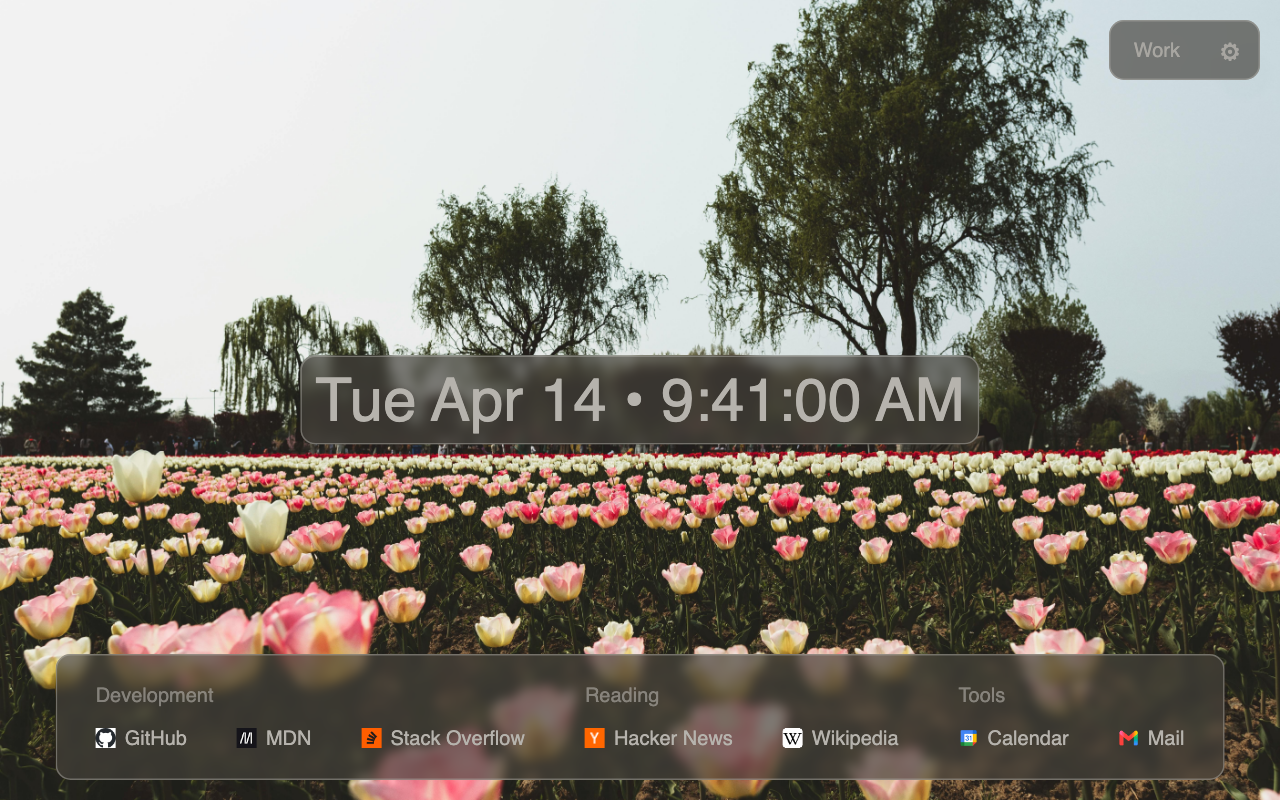
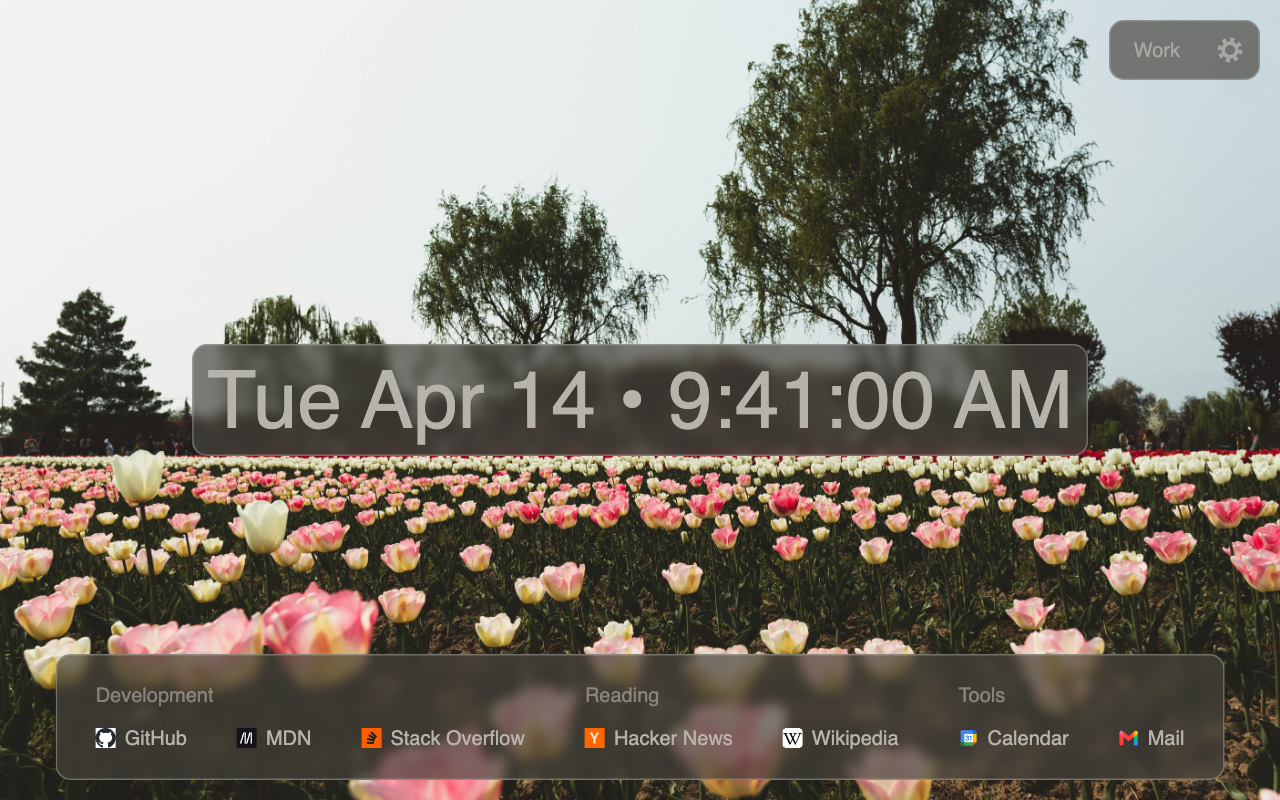
Keep the gear still while it spins, and enlarge the clock
The settings gear was the ⚙ character, which sits off-center in its
line box, so rotating it on hover made it drift (about 1.5px at 45°).
It's now an inline SVG centered in its own box, and only the SVG
rotates; measured drift is under 0.2px.

The clock was the same size as the link text in Corners, which made it
easy to miss. Its base size goes up in every layout: Corners 1rem to
1.6rem, Dock 3rem to 4rem, and the lock-screen time 4.5rem to 6rem
(date 1.1rem to 1.4rem). The clock size slider still multiplies these.

Regenerates the store screenshots.

Changed region(s): [[0.125, 0.4062, 0.875, 0.5938], [0.9375, 0.0312, 0.9688, 0.0625]]

diff --git a/new-tab.html b/new-tab.html
@@ -43,16 +43,25 @@
         height: 2.5rem;
         width: 2.5rem;
         border-radius: 0.5rem;
-        transition:
-          opacity 0.3s,
-          transform 0.3s;
+        transition: opacity 0.3s;
         font-size: 1.5rem;
         text-decoration: none;
+
+        /* An SVG rather than the ⚙ character: the glyph sits off-center in
+           its line box, so spinning it made it wobble */
+        & svg {
+          width: 1em;
+          height: 1em;
+          transition: transform 0.3s;
+        }
       }
 
       .settings-link:hover {
         opacity: 1;
-        transform: rotate(90deg);
+
+        & svg {
+          transform: rotate(90deg);
+        }
       }
 
       .set-switcher {
@@ -120,7 +129,12 @@
         <a id="set-switcher-toggle" class="set-switcher-toggle" title="Link set"></a>
         <div id="set-switcher-menu" class="set-switcher-menu panel" hidden></div>
       </div>
-      <a id="settings-link" class="settings-link" title="Options">&#9881;</a>
+      <a id="settings-link" class="settings-link" title="Options"
+        ><svg viewBox="0 0 24 24" fill="none" stroke="currentColor" aria-hidden="true">
+          <!-- teeth: a thick dashed ring, 8 dashes around r=8 (circumference 16π) -->
+          <circle cx="12" cy="12" r="8" stroke-width="4" stroke-dasharray="3.1416 3.1416" />
+          <circle cx="12" cy="12" r="5.5" stroke-width="3" /></svg
+      ></a>
     </div>
     <section id="link-groups" class="link-groups panel"></section>
     <section id="clock" class="clock panel"><span></span></section>

diff --git a/panels.css b/panels.css
@@ -129,8 +129,8 @@ body.no-favicons a.link .favicon {
   border-bottom-right-radius: 0;
 
   & > span {
-    /* same base size as the links; the clock-scale setting adjusts it */
-    font-size: 1rem;
+    /* the clock-scale setting multiplies this */
+    font-size: 1.6rem;
   }
 
   /* Inline style: date and time on one line with a bullet between */
@@ -173,7 +173,7 @@ body[data-layout="dock"] {
     border-radius: var(--panel-radius);
 
     & > span {
-      font-size: 3rem;
+      font-size: 4rem;
       white-space: nowrap;
     }
   }
@@ -233,13 +233,13 @@ body[data-layout="sidebar"] {
   }
 
   & .clock-date {
-    font-size: 1.1rem;
+    font-size: 1.4rem;
     font-weight: 500;
     opacity: 0.85;
   }
 
   & .clock-time {
-    font-size: 4.5rem;
+    font-size: 6rem;
     font-weight: 200;
     line-height: 1;
     letter-spacing: -0.02em;
